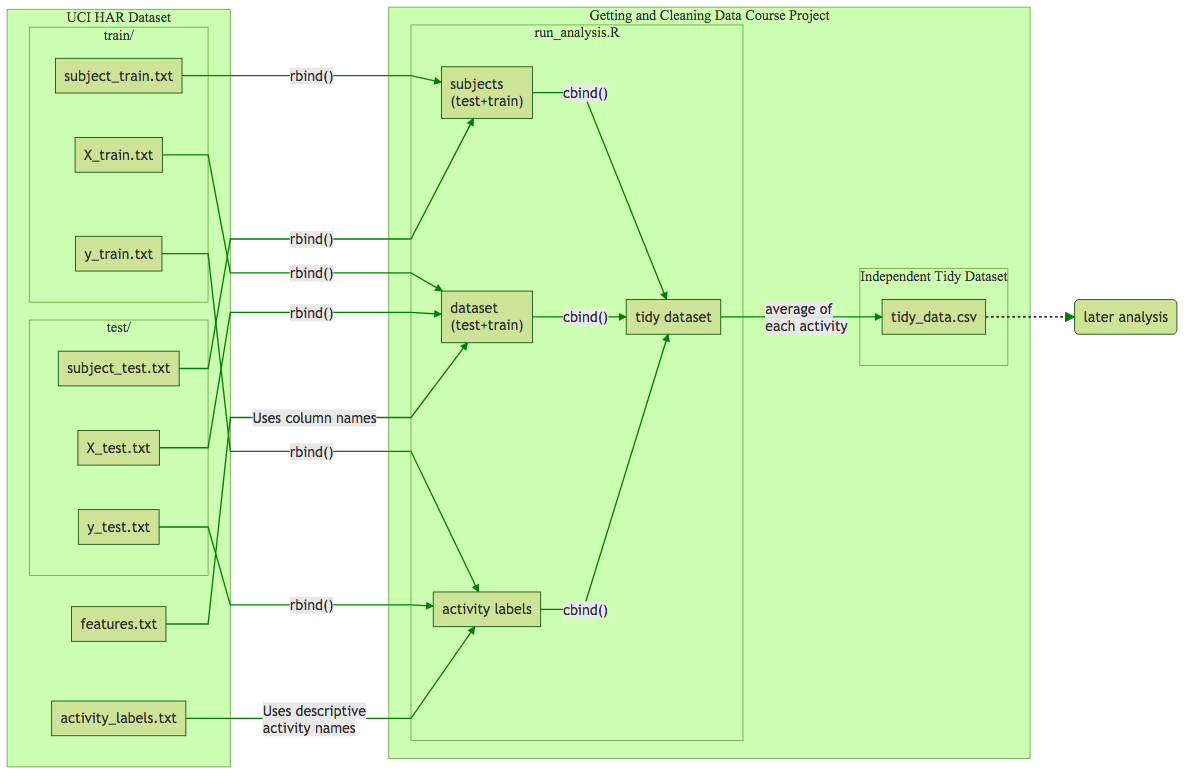
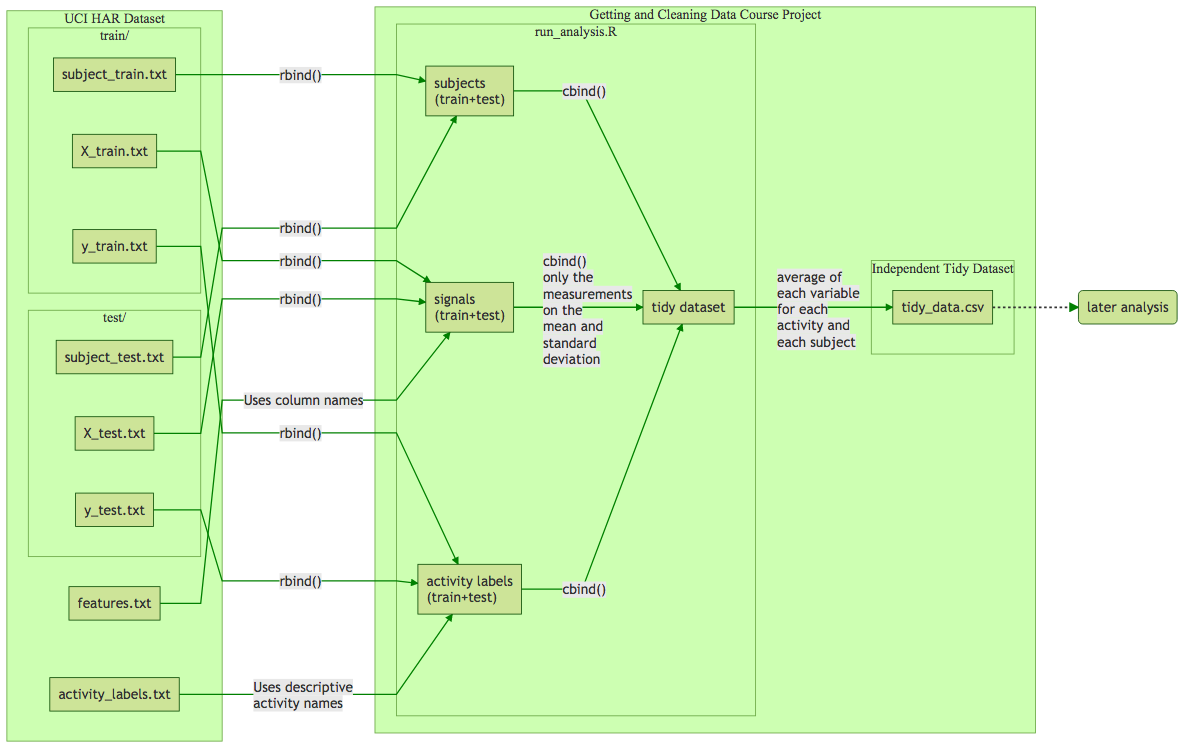
fixed typo

diff --git a/CodeBook.md b/CodeBook.md
@@ -8,9 +8,21 @@ A code book that describes the variables, the data, and any transformations or w
 
 https://github.com/dr-orange/Getting-and-Cleaning-Data-Course-Project/blob/master/tidy_data.csv
 
-## Source:
+## Source Data Set:
 
 https://d396qusza40orc.cloudfront.net/getdata%2Fprojectfiles%2FUCI%20HAR%20Dataset.zip
+
+- `features.txt`: List of all features.
+- `activity_labels.txt`: Links the class labels with their activity name.
+- `train/X_train.txt`: Training set.
+- `train/y_train.txt`: Training labels.
+- `test/X_test.txt`: Test set.
+- `test/y_test.txt`: Test labels.
+- `train/subject_train.txt`: Each row identifies the subject who performed the activity for each window sample. Its range is from 1 to 30. 
+
+## Transformation and Work:
+
+![](res/connect.png "Data Connection")
 
 ## Data Set Information:
 
@@ -32,7 +44,7 @@ These signals were used to estimate variables of the feature vector for each pat
 7. X, Y or Z  
     3-axial signals in the `X`, `Y` and `Z` directions.
 
-## Variables
+## Variables:
 
 The complete list of variables of each feature vector:
 

diff --git a/README.md b/README.md
@@ -18,8 +18,8 @@ Merges the training and the test sets to create one data set.
 Extracts only the measurements on the mean and standard deviation for each measurement.
 Uses descriptive activity names to name the activities in the data set
 Appropriately labels the data set with descriptive variable names.
-From the data set in step 4, creates a second, independent tidy data set with the average of each variable for each activity and each subject.
-3. `CodeBook.md` - a code book that describes the variables, the data, and any transformations or work that you performed to clean up the data
+From the data, creates a second, independent tidy data set with the average of each variable for each activity and each subject.
+3. `CodeBook.md` - a code book that describes the variables, the data, and any transformations or work that `run_analysis.R` performed to clean up the data
 4. `README.md` - this file
 
 ## How these are connected:
